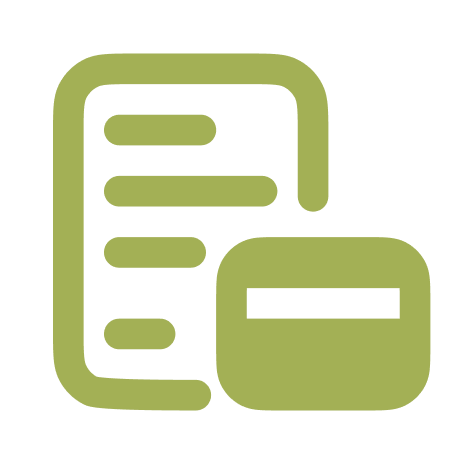
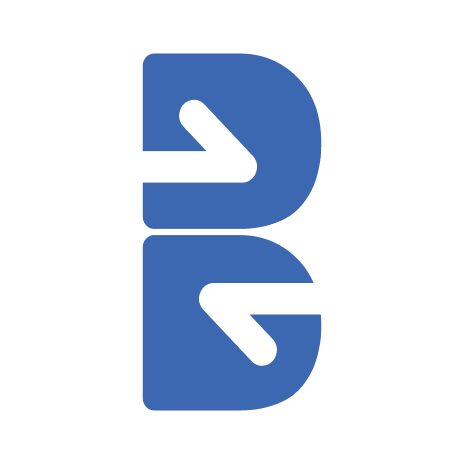
minor changes

diff --git a/src/app/globals.css b/src/app/globals.css
@@ -49,3 +49,18 @@
   border-radius: 3px;
   background-color: var(--green);
 }
+
+@keyframes float {
+  0%,
+  100% {
+    transform: translateY(0px) scale(1);
+  }
+
+  50% {
+    transform: translateY(-8px) scale(1.05);
+  }
+}
+
+.animate-float {
+  animation: float 3s ease-in-out infinite;
+}

diff --git a/src/app/component/Footer.tsx b/src/app/component/Footer.tsx
@@ -117,7 +117,7 @@ const Footer = () => {
                     href={"tel:[phone redacted]"}
                     className="text-textColor text-font16 font-normal hover:text-green transition-all duration-400 ease-in-out"
                   >
-                    [phone redacted]
+                    [phone redacted] 98
                   </Link>
                 </div>
                 <div className="flex items-center gap-x-4 mb-3.5">

diff --git a/src/app/contact/ContactInfo.tsx b/src/app/contact/ContactInfo.tsx
@@ -27,7 +27,7 @@ const ContactInfo = () => {
                       Contact Number
                     </p>
                     <h3 className="text-textColor text-font15 md:text-font17 font-semibold leading-6.75">
-                      [phone redacted]
+                      [phone redacted] 98
                     </h3>
                   </div>
                 </div>